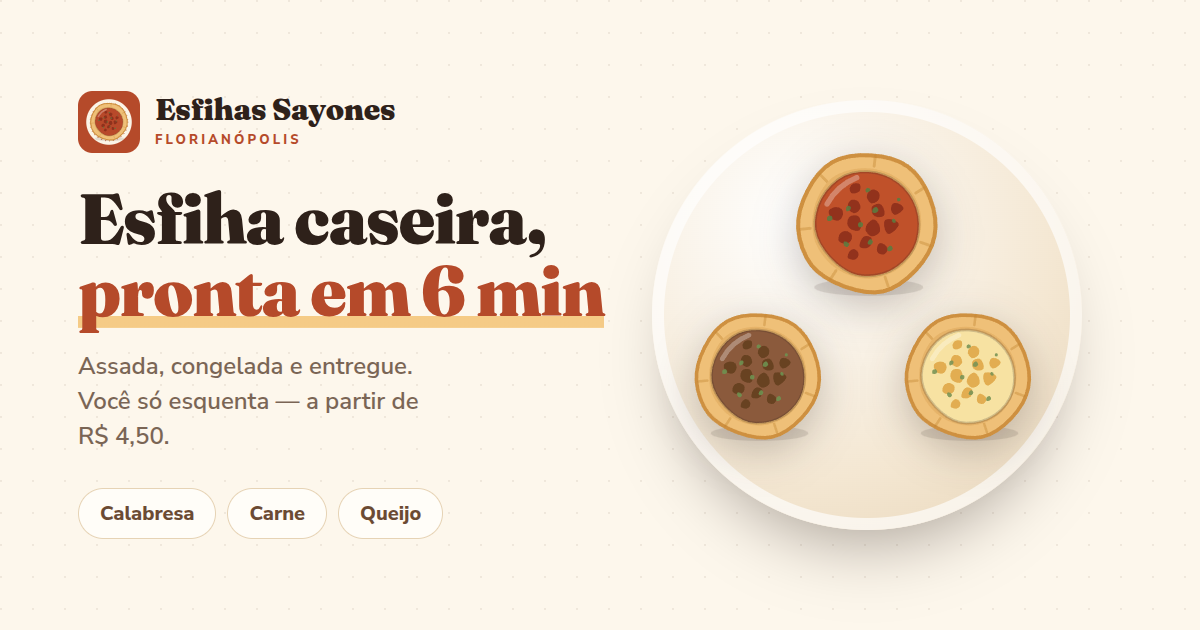
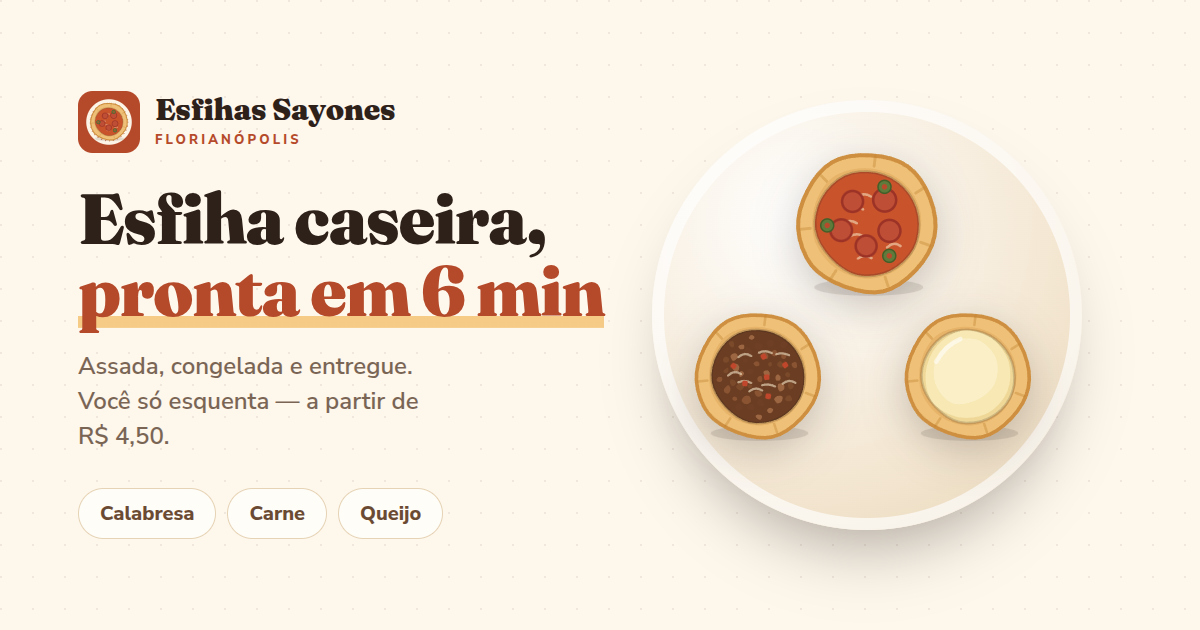
Um desenho por sabor, em vez do mesmo com cor trocada
Os três sabores usavam o mesmo SVG variando só as cores do recheio, então
nenhum tinha cara do que é. Agora são três desenhos independentes:

- Calabresa: molho, rodelas de calabresa em anel, fiapos de cebola e
  azeitona em rodela.
- Carne: granulado denso de carne moída em quatro tons, com cebola e
  tomate em cubinhos — a receita da casa.
- Queijo: só a muçarela derretida, sem bolhas nem temperos.

A descrição da carne dizia "limão, tomate e hortelã", o que não bate com
a receita (cebola, tomate e carne). Corrigida aqui, no JSON-LD e no
depoimento que citava o limão.

No card compacto do celular a descrição agora trava em duas linhas: a
coluna tem 113px e a da calabresa vazava pra três, deixando um card 17px
mais alto que os outros.

diff --git a/index.html b/index.html
@@ -422,8 +422,9 @@ main,header,footer{position:relative;z-index:1}
   .card h3{grid-area:nome;text-align:left;font-size:20px;align-self:end}
   .card .desc{display:none}
   .card .desc.curta{
-    grid-area:desc;display:block;text-align:left;font-size:12.5px;margin:2px 0 3px;
-    min-height:0;line-height:1.35;color:var(--texto-suave);
+    grid-area:desc;text-align:left;font-size:12.5px;margin:2px 0 3px;line-height:1.35;
+    color:var(--texto-suave);height:2.7em;
+    display:-webkit-box;-webkit-line-clamp:2;-webkit-box-orient:vertical;overflow:hidden;
   }
   .card-rodape{display:contents}
   .preco{grid-area:preco;font-size:15.5px;align-self:start;white-space:nowrap}
@@ -465,7 +466,7 @@ main,header,footer{position:relative;z-index:1}
       "name": "Esfihas",
       "hasMenuItem": [
         { "@type": "MenuItem", "name": "Esfiha de calabresa congelada", "description": "Calabresa moída, cebola caramelizada, azeitona e pimenta. Assada e congelada.", "offers": { "@type": "Offer", "price": "5.00", "priceCurrency": "BRL" } },
-        { "@type": "MenuItem", "name": "Esfiha de carne congelada", "description": "Carne bovina temperada com limão, tomate e hortelã. Assada e congelada.", "offers": { "@type": "Offer", "price": "5.00", "priceCurrency": "BRL" } },
+        { "@type": "MenuItem", "name": "Esfiha de carne congelada", "description": "Carne bovina moída com cebola e tomate. Assada e congelada.", "offers": { "@type": "Offer", "price": "5.00", "priceCurrency": "BRL" } },
         { "@type": "MenuItem", "name": "Esfiha de queijo congelada", "description": "Muçarela com requeijão cremoso e orégano. Assada e congelada.", "offers": { "@type": "Offer", "price": "5.00", "priceCurrency": "BRL" } }
       ]
     }]
@@ -478,52 +479,145 @@ main,header,footer{position:relative;z-index:1}
 <!-- ====== sprites ====== -->
 <svg width="0" height="0" style="position:absolute" aria-hidden="true" focusable="false">
   <defs>
-    <symbol id="ic-esfiha" viewBox="0 0 100 100">
-      <!-- Esfiha ABERTA vista de cima: massa irregular, borda erguida, recheio exposto. -->
+    <symbol id="ic-calabresa" viewBox="0 0 100 100">
       <ellipse cx="51" cy="89" rx="32" ry="5" fill="rgba(46,33,26,.12)"/>
       <path d="M89.7 59.0C88.3 66.1 83.7 73.5 78.7 78.9C73.6 84.3 66.4 89.8 59.4 91.4C52.4 93.0 43.6 91.0 36.6 88.5C29.6 85.9 22.0 81.8 17.4 76.1C12.9 70.4 10.0 61.7 9.5 54.5C9.1 47.2 11.5 39.0 14.9 32.5C18.2 25.9 23.6 18.8 29.8 15.3C36.1 11.8 44.9 10.9 52.3 11.4C59.6 11.8 68.2 13.8 74.0 18.0C79.8 22.2 84.4 29.7 87.1 36.6C89.7 43.4 91.1 52.0 89.7 59.0Z" fill="#EFC078"/>
       <path d="M89.7 59.0C88.3 66.1 83.7 73.5 78.7 78.9C73.6 84.3 66.4 89.8 59.4 91.4C52.4 93.0 43.6 91.0 36.6 88.5C29.6 85.9 22.0 81.8 17.4 76.1C12.9 70.4 10.0 61.7 9.5 54.5C9.1 47.2 11.5 39.0 14.9 32.5C18.2 25.9 23.6 18.8 29.8 15.3C36.1 11.8 44.9 10.9 52.3 11.4C59.6 11.8 68.2 13.8 74.0 18.0C79.8 22.2 84.4 29.7 87.1 36.6C89.7 43.4 91.1 52.0 89.7 59.0Z" fill="none" stroke="#CE9040" stroke-width="2.4" stroke-linejoin="round"/>
       <g stroke="#C1832F" stroke-width="1.7" stroke-linecap="round" opacity=".38">
-        <path d="M81.5 62.5 L87.1 64.5"/>
-        <path d="M60.6 82.8 L62.5 88.5"/>
-        <path d="M31.8 79.1 L28.5 84.2"/>
-        <path d="M16.7 54.3 L10.7 54.9"/>
-        <path d="M26.6 27.0 L22.4 22.7"/>
-        <path d="M54.2 17.8 L54.9 11.8"/>
-        <path d="M78.6 33.6 L83.7 30.4"/>
+      <path d="M81.5 62.5 L87.1 64.5"/>
+      <path d="M60.6 82.8 L62.5 88.5"/>
+      <path d="M31.8 79.1 L28.5 84.2"/>
+      <path d="M16.7 54.3 L10.7 54.9"/>
+      <path d="M26.6 27.0 L22.4 22.7"/>
+      <path d="M54.2 17.8 L54.9 11.8"/>
+      <path d="M78.6 33.6 L83.7 30.4"/>
       </g>
       <path d="M70.4 76.7C65.5 80.8 57.8 83.8 51.4 84.0C45.0 84.2 37.3 81.7 32.0 78.1C26.7 74.5 21.7 68.3 19.5 62.4C17.3 56.4 17.3 48.6 18.9 42.3C20.5 36.1 24.3 28.7 29.2 24.8C34.2 20.9 42.2 19.0 48.6 18.9C55.0 18.8 62.4 21.0 67.6 24.5C72.9 27.9 77.8 33.9 80.0 39.8C82.3 45.7 82.5 53.5 80.9 59.6C79.3 65.8 75.3 72.6 70.4 76.7Z" fill="#E6B368"/>
-      <path d="M77.5 66.0C74.7 71.4 69.0 76.7 63.4 79.4C57.9 82.0 50.1 83.1 44.2 81.7C38.4 80.4 32.5 75.8 28.4 71.4C24.3 66.9 20.4 60.7 19.6 54.9C18.7 49.1 20.5 41.7 23.4 36.4C26.3 31.2 31.6 25.8 36.9 23.4C42.3 20.9 49.7 20.6 55.5 21.7C61.3 22.9 67.6 26.2 71.7 30.5C75.8 34.7 79.2 41.2 80.1 47.1C81.1 53.0 80.3 60.6 77.5 66.0Z" fill="var(--recheio,#B8492A)"/>
+      <path d="M77.5 66.0C74.7 71.4 69.0 76.7 63.4 79.4C57.9 82.0 50.1 83.1 44.2 81.7C38.4 80.4 32.5 75.8 28.4 71.4C24.3 66.9 20.4 60.7 19.6 54.9C18.7 49.1 20.5 41.7 23.4 36.4C26.3 31.2 31.6 25.8 36.9 23.4C42.3 20.9 49.7 20.6 55.5 21.7C61.3 22.9 67.6 26.2 71.7 30.5C75.8 34.7 79.2 41.2 80.1 47.1C81.1 53.0 80.3 60.6 77.5 66.0Z" fill="#C9542C"/>
       <path d="M77.5 66.0C74.7 71.4 69.0 76.7 63.4 79.4C57.9 82.0 50.1 83.1 44.2 81.7C38.4 80.4 32.5 75.8 28.4 71.4C24.3 66.9 20.4 60.7 19.6 54.9C18.7 49.1 20.5 41.7 23.4 36.4C26.3 31.2 31.6 25.8 36.9 23.4C42.3 20.9 49.7 20.6 55.5 21.7C61.3 22.9 67.6 26.2 71.7 30.5C75.8 34.7 79.2 41.2 80.1 47.1C81.1 53.0 80.3 60.6 77.5 66.0Z" fill="none" stroke="rgba(46,33,26,.2)" stroke-width="1.8"/>
-      <g fill="var(--pedaco,#8C2F1B)" opacity=".92">
-        <path d="M57.2 56.9C56.5 58.0 53.9 59.3 52.6 59.0C51.3 58.8 49.6 56.7 49.2 55.5C48.9 54.2 49.6 52.5 50.4 51.5C51.2 50.4 53.0 48.9 54.1 49.1C55.2 49.2 56.6 51.1 57.2 52.4C57.7 53.7 58.0 55.8 57.2 56.9Z"/>
-        <path d="M39.9 47.4C40.9 46.6 43.5 46.4 44.6 47.0C45.7 47.6 46.3 49.6 46.5 51.0C46.6 52.4 46.5 54.8 45.5 55.5C44.6 56.2 42.0 55.7 40.8 55.0C39.6 54.4 38.6 52.9 38.4 51.7C38.3 50.4 38.8 48.2 39.9 47.4Z"/>
-        <path d="M59.9 46.8C59.3 47.6 57.4 47.9 56.2 47.7C55.1 47.5 53.7 46.7 53.2 45.7C52.7 44.6 52.4 42.3 53.1 41.4C53.8 40.4 56.3 39.6 57.4 39.9C58.6 40.1 59.5 41.9 59.9 43.0C60.4 44.2 60.6 46.1 59.9 46.8Z"/>
-        <path d="M48.9 58.9C49.9 58.6 51.8 59.1 52.4 59.8C53.0 60.6 53.1 62.4 52.7 63.4C52.3 64.4 51.3 65.5 50.1 65.9C48.9 66.2 46.4 66.1 45.8 65.3C45.2 64.5 46.0 62.2 46.6 61.1C47.1 60.1 47.9 59.1 48.9 58.9Z"/>
-        <path d="M40.8 37.6C41.8 37.2 43.8 37.6 44.7 38.4C45.5 39.2 46.4 41.2 46.1 42.4C45.9 43.5 44.1 45.2 43.0 45.4C41.9 45.6 40.2 44.4 39.5 43.6C38.8 42.7 38.5 41.4 38.7 40.4C39.0 39.4 39.9 37.9 40.8 37.6Z"/>
-        <path d="M66.4 55.5C65.3 56.5 63.5 57.9 62.5 57.6C61.4 57.4 60.5 55.1 60.2 53.7C59.9 52.4 59.9 50.2 60.7 49.4C61.5 48.7 63.7 48.8 65.0 49.2C66.4 49.6 68.5 50.7 68.7 51.8C68.9 52.8 67.4 54.5 66.4 55.5Z"/>
-        <path d="M33.4 61.7C32.8 60.8 33.4 58.4 34.1 57.5C34.8 56.5 36.6 55.8 37.7 55.9C38.9 56.0 40.5 57.0 41.0 58.0C41.4 59.0 41.1 60.9 40.5 61.7C39.9 62.6 38.4 63.3 37.2 63.3C36.0 63.3 33.9 62.7 33.4 61.7Z"/>
-        <path d="M57.3 33.9C57.6 34.9 57.4 36.8 56.6 37.8C55.8 38.7 53.7 39.9 52.6 39.6C51.5 39.3 50.2 37.3 49.9 36.2C49.7 35.0 50.4 33.5 51.1 32.7C51.8 31.9 53.3 31.3 54.4 31.5C55.4 31.7 56.9 32.8 57.3 33.9Z"/>
-        <path d="M62.2 66.6C62.2 67.5 61.1 69.2 60.1 69.6C59.2 70.0 57.3 69.5 56.6 68.9C55.9 68.3 55.7 66.7 55.9 65.8C56.0 64.8 56.7 63.4 57.4 63.1C58.1 62.8 59.5 63.3 60.3 63.9C61.1 64.5 62.2 65.6 62.2 66.6Z"/>
-        <path d="M28.9 48.5C28.0 47.5 27.1 44.9 27.6 43.8C28.1 42.7 30.5 41.9 31.7 41.8C33.0 41.7 34.4 42.3 35.1 43.0C35.8 43.8 36.1 45.4 35.8 46.5C35.5 47.6 34.5 49.4 33.3 49.7C32.2 50.1 29.9 49.5 28.9 48.5Z"/>
-        <path d="M66.1 46.3C65.2 46.0 64.2 44.4 64.1 43.3C63.9 42.2 64.5 40.3 65.3 39.7C66.1 39.2 67.9 39.4 68.9 39.9C69.9 40.3 71.4 41.5 71.5 42.4C71.5 43.3 70.2 44.5 69.3 45.2C68.4 45.8 67.0 46.6 66.1 46.3Z"/>
-        <path d="M44.6 68.2C45.1 68.9 45.1 70.3 44.7 71.1C44.3 71.8 43.3 72.7 42.3 72.8C41.3 72.9 39.3 72.5 38.8 71.8C38.3 71.0 38.9 69.1 39.5 68.2C40.0 67.4 41.2 66.5 42.1 66.5C42.9 66.5 44.2 67.4 44.6 68.2Z"/>
-        <path d="M43.5 33.6C42.6 33.8 41.2 34.0 40.6 33.4C40.0 32.9 39.6 31.3 39.9 30.4C40.1 29.5 41.0 28.4 42.0 28.0C43.0 27.7 45.0 27.6 45.7 28.3C46.3 28.9 46.3 31.0 45.9 31.9C45.6 32.8 44.4 33.3 43.5 33.6Z"/>
+      <g stroke="#F3DFBC" stroke-width="1.5" stroke-linecap="round" fill="none" opacity=".6">
+        <path d="M40.1 59.0 q4.0 -2.4 8.0 0.1"/>
+        <path d="M44.3 35.7 q4.0 -2.8 8.0 -0.1"/>
+        <path d="M61.8 65.6 q4.0 -4.0 8.0 -0.8"/>
+        <path d="M36.0 51.2 q4.0 -2.5 8.0 0.1"/>
+        <path d="M57.2 40.3 q4.0 -2.6 8.0 -0.0"/>
+        <path d="M44.7 72.1 q4.0 -2.9 8.0 -0.2"/>
+        <path d="M39.7 42.6 q4.0 -1.6 8.0 0.6"/>
       </g>
-      <g fill="var(--erva,#5C7A3F)" opacity=".9">
-        <path d="M44.7 51.8C44.8 51.3 45.3 50.8 45.7 50.7C46.2 50.6 47.3 50.7 47.5 51.2C47.8 51.6 47.7 52.9 47.3 53.3C46.9 53.7 45.7 53.8 45.2 53.5C44.8 53.3 44.6 52.3 44.7 51.8Z"/>
-        <path d="M55.5 41.8C56.0 41.9 56.7 43.2 56.7 43.8C56.6 44.4 55.8 45.0 55.2 45.2C54.7 45.4 53.5 45.3 53.2 44.9C52.9 44.5 53.1 43.4 53.5 42.9C53.9 42.3 54.9 41.6 55.5 41.8Z"/>
-        <path d="M52.3 63.9C51.8 64.1 50.7 63.8 50.4 63.4C50.2 63.0 50.5 62.2 50.8 61.7C51.1 61.3 51.8 60.6 52.3 60.7C52.7 60.8 53.5 61.8 53.5 62.3C53.5 62.9 52.8 63.8 52.3 63.9Z"/>
-        <path d="M40.5 41.9C40.6 42.3 40.5 43.1 40.1 43.5C39.7 43.9 38.4 44.5 38.0 44.3C37.6 44.0 37.6 42.5 37.8 42.0C38.0 41.4 38.7 41.0 39.2 41.0C39.6 41.0 40.3 41.5 40.5 41.9Z"/>
-        <path d="M65.3 48.6C65.6 48.5 66.4 48.9 66.6 49.3C66.9 49.7 67.0 50.5 66.8 50.8C66.6 51.1 65.7 51.1 65.4 51.0C65.0 50.8 64.6 50.3 64.6 49.9C64.5 49.5 64.9 48.7 65.3 48.6Z"/>
-        <path d="M36.4 62.2C36.8 61.9 38.0 62.2 38.5 62.5C39.0 62.7 39.6 63.4 39.5 63.9C39.5 64.3 38.7 65.3 38.2 65.3C37.7 65.4 36.8 64.9 36.5 64.4C36.2 63.9 36.1 62.5 36.4 62.2Z"/>
-        <path d="M50.5 30.5C51.0 30.5 51.9 31.1 52.0 31.6C52.1 32.0 51.4 32.7 51.0 32.9C50.6 33.2 49.8 33.3 49.5 33.1C49.1 32.8 49.0 31.9 49.1 31.5C49.3 31.0 50.0 30.5 50.5 30.5Z"/>
-        <path d="M64.0 67.6C63.5 67.8 62.5 67.9 62.2 67.6C61.8 67.3 61.9 66.1 62.2 65.6C62.5 65.1 63.5 64.4 64.0 64.5C64.5 64.6 65.2 65.7 65.2 66.3C65.2 66.8 64.5 67.3 64.0 67.6Z"/>
-        <path d="M28.6 49.9C28.1 50.1 26.9 50.1 26.6 49.7C26.3 49.3 26.4 47.8 26.8 47.4C27.1 46.9 28.4 46.8 28.9 47.0C29.4 47.2 29.8 48.2 29.7 48.7C29.7 49.2 29.1 49.7 28.6 49.9Z"/>
-        <path d="M68.1 38.4C67.8 38.3 67.5 37.5 67.6 37.2C67.7 36.8 68.1 36.3 68.5 36.3C68.8 36.2 69.4 36.5 69.5 36.8C69.7 37.1 69.8 37.9 69.5 38.2C69.3 38.4 68.4 38.6 68.1 38.4Z"/>
+      <g>
+        <g><circle cx="63.2" cy="55.8" r="7.2" fill="#9C3326"/><circle cx="63.2" cy="55.8" r="5.7" fill="#BE4E35"/></g>
+        <g><circle cx="49.5" cy="64.7" r="6.9" fill="#9C3326"/><circle cx="49.5" cy="64.7" r="5.4" fill="#BE4E35"/></g>
+        <g><circle cx="34.8" cy="55.4" r="7.1" fill="#9C3326"/><circle cx="34.8" cy="55.4" r="5.6" fill="#BE4E35"/></g>
+        <g><circle cx="41.5" cy="38.5" r="6.9" fill="#9C3326"/><circle cx="41.5" cy="38.5" r="5.4" fill="#BE4E35"/></g>
+        <g><circle cx="60.4" cy="37.7" r="7.5" fill="#9C3326"/><circle cx="60.4" cy="37.7" r="6.0" fill="#BE4E35"/></g>
       </g>
-      <path d="M26.5 40q6-11 17.5-15.5" fill="none" stroke="rgba(255,255,255,.4)"
-            stroke-width="3.2" stroke-linecap="round" opacity=".75"/>
+      <g>
+        <g><circle cx="63.1" cy="70.5" r="3.8" fill="#5F7B3C"/><circle cx="63.1" cy="70.5" r="3.8" fill="none" stroke="#445E28" stroke-width=".9"/><circle cx="63.1" cy="70.5" r="1.6" fill="#B8492A"/></g>
+        <g><circle cx="26.6" cy="52.6" r="3.8" fill="#5F7B3C"/><circle cx="26.6" cy="52.6" r="3.8" fill="none" stroke="#445E28" stroke-width=".9"/><circle cx="26.6" cy="52.6" r="1.6" fill="#B8492A"/></g>
+        <g><circle cx="60.3" cy="29.9" r="3.8" fill="#5F7B3C"/><circle cx="60.3" cy="29.9" r="3.8" fill="none" stroke="#445E28" stroke-width=".9"/><circle cx="60.3" cy="29.9" r="1.6" fill="#B8492A"/></g>
+      </g>
+    </symbol>
+    <symbol id="ic-carne" viewBox="0 0 100 100">
+      <ellipse cx="51" cy="89" rx="32" ry="5" fill="rgba(46,33,26,.12)"/>
+      <path d="M89.7 59.0C88.3 66.1 83.7 73.5 78.7 78.9C73.6 84.3 66.4 89.8 59.4 91.4C52.4 93.0 43.6 91.0 36.6 88.5C29.6 85.9 22.0 81.8 17.4 76.1C12.9 70.4 10.0 61.7 9.5 54.5C9.1 47.2 11.5 39.0 14.9 32.5C18.2 25.9 23.6 18.8 29.8 15.3C36.1 11.8 44.9 10.9 52.3 11.4C59.6 11.8 68.2 13.8 74.0 18.0C79.8 22.2 84.4 29.7 87.1 36.6C89.7 43.4 91.1 52.0 89.7 59.0Z" fill="#EFC078"/>
+      <path d="M89.7 59.0C88.3 66.1 83.7 73.5 78.7 78.9C73.6 84.3 66.4 89.8 59.4 91.4C52.4 93.0 43.6 91.0 36.6 88.5C29.6 85.9 22.0 81.8 17.4 76.1C12.9 70.4 10.0 61.7 9.5 54.5C9.1 47.2 11.5 39.0 14.9 32.5C18.2 25.9 23.6 18.8 29.8 15.3C36.1 11.8 44.9 10.9 52.3 11.4C59.6 11.8 68.2 13.8 74.0 18.0C79.8 22.2 84.4 29.7 87.1 36.6C89.7 43.4 91.1 52.0 89.7 59.0Z" fill="none" stroke="#CE9040" stroke-width="2.4" stroke-linejoin="round"/>
+      <g stroke="#C1832F" stroke-width="1.7" stroke-linecap="round" opacity=".38">
+      <path d="M81.5 62.5 L87.1 64.5"/>
+      <path d="M60.6 82.8 L62.5 88.5"/>
+      <path d="M31.8 79.1 L28.5 84.2"/>
+      <path d="M16.7 54.3 L10.7 54.9"/>
+      <path d="M26.6 27.0 L22.4 22.7"/>
+      <path d="M54.2 17.8 L54.9 11.8"/>
+      <path d="M78.6 33.6 L83.7 30.4"/>
+      </g>
+      <path d="M70.4 76.7C65.5 80.8 57.8 83.8 51.4 84.0C45.0 84.2 37.3 81.7 32.0 78.1C26.7 74.5 21.7 68.3 19.5 62.4C17.3 56.4 17.3 48.6 18.9 42.3C20.5 36.1 24.3 28.7 29.2 24.8C34.2 20.9 42.2 19.0 48.6 18.9C55.0 18.8 62.4 21.0 67.6 24.5C72.9 27.9 77.8 33.9 80.0 39.8C82.3 45.7 82.5 53.5 80.9 59.6C79.3 65.8 75.3 72.6 70.4 76.7Z" fill="#E6B368"/>
+      <path d="M77.5 66.0C74.7 71.4 69.0 76.7 63.4 79.4C57.9 82.0 50.1 83.1 44.2 81.7C38.4 80.4 32.5 75.8 28.4 71.4C24.3 66.9 20.4 60.7 19.6 54.9C18.7 49.1 20.5 41.7 23.4 36.4C26.3 31.2 31.6 25.8 36.9 23.4C42.3 20.9 49.7 20.6 55.5 21.7C61.3 22.9 67.6 26.2 71.7 30.5C75.8 34.7 79.2 41.2 80.1 47.1C81.1 53.0 80.3 60.6 77.5 66.0Z" fill="#6B3D22"/>
+      <path d="M77.5 66.0C74.7 71.4 69.0 76.7 63.4 79.4C57.9 82.0 50.1 83.1 44.2 81.7C38.4 80.4 32.5 75.8 28.4 71.4C24.3 66.9 20.4 60.7 19.6 54.9C18.7 49.1 20.5 41.7 23.4 36.4C26.3 31.2 31.6 25.8 36.9 23.4C42.3 20.9 49.7 20.6 55.5 21.7C61.3 22.9 67.6 26.2 71.7 30.5C75.8 34.7 79.2 41.2 80.1 47.1C81.1 53.0 80.3 60.6 77.5 66.0Z" fill="none" stroke="rgba(46,33,26,.22)" stroke-width="1.8"/>
+      <g>
+        <path d="M51.9 51.3C52.4 51.4 52.7 52.6 52.8 53.3C52.9 54.0 52.6 55.1 52.2 55.3C51.7 55.5 50.3 55.2 49.9 54.7C49.5 54.2 49.4 53.0 49.7 52.4C50.0 51.8 51.3 51.1 51.9 51.3Z" fill="#8A5433"/>
+        <path d="M43.3 47.3C43.7 46.8 44.7 46.4 45.4 46.6C46.0 46.7 47.1 47.5 47.2 48.1C47.2 48.7 46.4 49.8 45.8 50.1C45.1 50.4 43.6 50.4 43.2 49.9C42.8 49.5 42.9 47.9 43.3 47.3Z" fill="#6E3F25"/>
+        <path d="M56.6 47.7C57.3 48.0 57.9 49.6 57.8 50.3C57.7 51.0 56.6 51.8 56.1 51.9C55.5 52.0 54.8 51.4 54.4 50.8C54.0 50.3 53.3 49.0 53.7 48.4C54.1 47.9 55.9 47.4 56.6 47.7Z" fill="#9C6642"/>
+        <path d="M44.7 56.8C45.2 56.9 46.2 57.3 46.3 57.7C46.4 58.1 45.6 59.1 45.1 59.3C44.7 59.5 43.8 59.2 43.5 58.9C43.2 58.6 43.1 57.7 43.3 57.4C43.5 57.0 44.2 56.8 44.7 56.8Z" fill="#7B4A2B"/>
+        <path d="M48.5 44.9C47.9 44.6 47.0 43.5 47.1 43.0C47.1 42.5 48.2 41.8 48.8 41.7C49.4 41.5 50.2 41.8 50.5 42.2C50.8 42.7 51.2 44.0 50.8 44.4C50.5 44.8 49.1 45.1 48.5 44.9Z" fill="#8A5433"/>
+        <path d="M57.0 60.1C56.5 60.3 55.2 59.6 54.8 59.1C54.4 58.5 54.2 57.3 54.5 56.8C54.9 56.2 56.3 55.7 56.9 55.8C57.4 56.0 57.8 57.2 57.8 57.9C57.8 58.6 57.5 59.9 57.0 60.1Z" fill="#6E3F25"/>
+        <path d="M37.9 50.0C38.0 49.3 38.3 48.1 38.8 48.0C39.3 47.9 40.7 48.9 40.8 49.4C41.0 50.0 40.3 50.8 39.8 51.2C39.4 51.6 38.4 52.1 38.0 51.9C37.7 51.7 37.7 50.6 37.9 50.0Z" fill="#9C6642"/>
+        <path d="M58.6 42.1C59.0 42.3 59.2 43.3 59.2 43.8C59.1 44.3 58.8 44.9 58.4 45.0C58.0 45.1 57.2 44.9 56.9 44.6C56.7 44.2 56.5 43.3 56.8 42.9C57.1 42.5 58.2 42.0 58.6 42.1Z" fill="#7B4A2B"/>
+        <path d="M50.9 61.0C51.8 61.4 52.8 62.8 52.8 63.5C52.7 64.2 51.1 64.9 50.5 65.0C49.8 65.2 49.1 64.7 48.7 64.1C48.2 63.5 47.4 62.0 47.8 61.4C48.2 60.9 50.1 60.7 50.9 61.0Z" fill="#8A5433"/>
+        <path d="M41.4 39.7C42.0 39.8 42.7 40.1 42.9 40.5C43.1 41.0 43.0 42.3 42.6 42.5C42.3 42.8 41.2 42.4 40.7 42.1C40.2 41.8 39.6 40.9 39.7 40.5C39.8 40.1 40.9 39.7 41.4 39.7Z" fill="#6E3F25"/>
+        <path d="M63.0 50.3C63.5 50.3 64.6 51.1 64.8 51.7C65.1 52.4 64.9 53.6 64.4 54.1C63.9 54.5 62.4 54.5 61.9 54.2C61.5 53.8 61.3 52.6 61.5 52.0C61.6 51.3 62.4 50.3 63.0 50.3Z" fill="#9C6642"/>
+        <path d="M40.8 58.5C40.5 59.3 39.3 60.8 38.4 60.8C37.6 60.8 35.8 59.4 35.6 58.6C35.5 57.8 36.8 56.6 37.5 56.2C38.1 55.8 39.1 55.8 39.7 56.2C40.2 56.6 41.0 57.8 40.8 58.5Z" fill="#7B4A2B"/>
+        <path d="M56.2 36.7C56.7 37.4 57.0 39.2 56.5 39.7C56.1 40.2 54.4 40.2 53.7 39.9C52.9 39.6 52.0 38.7 52.0 38.0C52.0 37.3 52.9 35.9 53.6 35.7C54.3 35.5 55.7 36.0 56.2 36.7Z" fill="#8A5433"/>
+        <path d="M56.7 62.3C57.3 62.1 58.3 62.1 58.7 62.6C59.0 63.0 59.3 64.5 58.9 65.0C58.5 65.6 56.9 66.3 56.2 66.1C55.5 65.9 54.8 64.2 54.9 63.6C54.9 62.9 56.0 62.4 56.7 62.3Z" fill="#6E3F25"/>
+        <path d="M37.7 45.9C37.5 46.7 37.0 48.3 36.2 48.5C35.5 48.6 33.7 47.6 33.4 46.7C33.0 45.9 33.4 43.8 34.0 43.4C34.6 42.9 36.3 43.5 36.9 43.9C37.5 44.3 37.8 45.2 37.7 45.9Z" fill="#9C6642"/>
+        <path d="M66.1 43.3C66.4 44.0 66.5 45.3 66.1 45.6C65.7 45.9 64.3 45.8 63.7 45.4C63.1 45.0 62.4 43.8 62.6 43.2C62.8 42.6 64.1 41.6 64.7 41.6C65.3 41.6 65.9 42.7 66.1 43.3Z" fill="#7B4A2B"/>
+        <path d="M40.9 64.8C41.7 64.2 43.6 64.0 44.3 64.6C45.0 65.1 45.6 67.2 45.3 68.1C45.0 69.0 43.2 69.9 42.2 69.9C41.2 69.8 39.5 68.7 39.3 67.8C39.1 67.0 40.0 65.3 40.9 64.8Z" fill="#8A5433"/>
+        <path d="M46.1 36.2C45.9 36.7 44.2 37.1 43.3 36.9C42.5 36.7 41.2 35.7 41.1 34.9C41.0 34.1 42.2 32.3 42.9 32.1C43.5 31.9 44.5 33.1 45.1 33.7C45.6 34.4 46.4 35.7 46.1 36.2Z" fill="#6E3F25"/>
+        <path d="M66.9 56.8C67.4 57.4 67.5 59.2 67.1 60.0C66.7 60.8 65.1 61.6 64.4 61.5C63.7 61.3 63.2 60.0 63.0 59.1C62.9 58.3 62.9 56.8 63.6 56.4C64.2 56.0 66.3 56.2 66.9 56.8Z" fill="#9C6642"/>
+        <path d="M35.5 56.3C35.3 57.0 33.8 58.0 33.2 57.9C32.5 57.8 31.8 56.7 31.6 56.0C31.4 55.3 31.7 54.0 32.2 53.7C32.6 53.4 33.9 53.7 34.4 54.2C35.0 54.6 35.7 55.7 35.5 56.3Z" fill="#7B4A2B"/>
+        <path d="M62.8 36.7C62.7 37.4 61.4 38.4 60.8 38.5C60.1 38.5 59.1 37.7 58.9 37.1C58.6 36.6 58.7 35.6 59.2 35.1C59.6 34.6 60.9 33.9 61.5 34.2C62.1 34.5 62.9 36.0 62.8 36.7Z" fill="#8A5433"/>
+        <path d="M54.1 70.9C53.7 71.4 51.6 71.3 50.8 70.9C50.0 70.6 49.3 69.5 49.3 68.8C49.3 68.0 50.3 66.5 50.9 66.4C51.5 66.2 52.5 67.2 53.0 68.0C53.5 68.7 54.4 70.4 54.1 70.9Z" fill="#6E3F25"/>
+        <path d="M36.1 39.9C35.6 40.4 34.2 41.6 33.5 41.3C32.8 41.0 31.7 38.9 31.9 38.1C32.1 37.2 33.8 36.3 34.6 36.3C35.4 36.2 36.4 37.2 36.6 37.8C36.9 38.4 36.6 39.3 36.1 39.9Z" fill="#9C6642"/>
+        <path d="M70.3 52.2C69.8 52.4 68.9 51.9 68.5 51.5C68.1 51.2 67.7 50.5 67.9 50.1C68.0 49.6 68.8 48.7 69.3 48.7C69.9 48.7 70.9 49.5 71.1 50.0C71.3 50.6 70.7 51.9 70.3 52.2Z" fill="#7B4A2B"/>
+        <path d="M33.1 66.5C33.0 66.0 33.8 65.0 34.2 64.8C34.7 64.7 35.4 65.0 35.8 65.4C36.1 65.7 36.5 66.6 36.3 67.0C36.1 67.4 35.2 67.8 34.6 67.7C34.1 67.6 33.2 67.0 33.1 66.5Z" fill="#8A5433"/>
+        <path d="M47.9 30.1C48.3 29.5 49.9 29.7 50.8 29.8C51.7 29.9 53.2 30.3 53.4 31.0C53.5 31.6 52.5 33.2 51.7 33.7C50.9 34.1 49.1 34.1 48.5 33.5C47.9 32.9 47.6 30.7 47.9 30.1Z" fill="#6E3F25"/>
+        <path d="M65.6 68.0C65.1 68.8 63.5 69.5 62.7 69.3C61.9 69.0 60.7 67.3 60.7 66.5C60.8 65.7 62.0 64.8 62.9 64.5C63.7 64.2 65.5 64.1 66.0 64.7C66.4 65.3 66.2 67.2 65.6 68.0Z" fill="#9C6642"/>
+        <path d="M27.3 48.7C27.1 48.3 27.7 47.4 28.2 46.9C28.6 46.5 29.8 45.8 30.2 46.0C30.6 46.2 30.6 47.6 30.5 48.2C30.3 48.8 29.8 49.4 29.2 49.5C28.7 49.5 27.5 49.1 27.3 48.7Z" fill="#7B4A2B"/>
+        <path d="M68.5 38.8C68.4 39.4 67.9 40.1 67.4 40.2C66.9 40.3 65.8 40.0 65.5 39.5C65.2 39.0 65.2 37.7 65.6 37.3C66.0 36.8 67.5 36.5 68.0 36.8C68.4 37.0 68.6 38.2 68.5 38.8Z" fill="#8A5433"/>
+        <path d="M42.7 71.9C42.7 71.4 43.3 70.5 43.9 70.2C44.6 69.9 46.2 69.4 46.7 70.0C47.3 70.5 47.6 72.8 47.1 73.3C46.7 73.9 44.9 73.7 44.2 73.5C43.5 73.2 42.7 72.5 42.7 71.9Z" fill="#6E3F25"/>
+        <path d="M40.8 31.0C41.1 31.4 41.0 32.9 40.6 33.4C40.2 33.8 39.0 33.9 38.4 33.7C37.9 33.4 37.0 32.5 37.1 32.0C37.1 31.6 38.0 31.0 38.7 30.8C39.3 30.6 40.5 30.5 40.8 31.0Z" fill="#9C6642"/>
+        <path d="M70.4 55.6C70.9 55.3 72.3 55.8 72.8 56.3C73.3 56.8 73.7 57.9 73.5 58.5C73.3 59.1 72.0 60.2 71.4 60.1C70.7 60.0 69.9 58.9 69.7 58.1C69.6 57.4 69.9 56.0 70.4 55.6Z" fill="#7B4A2B"/>
+        <path d="M27.6 61.6C27.2 61.0 27.7 59.9 28.2 59.2C28.7 58.5 30.0 57.2 30.7 57.4C31.3 57.6 32.0 59.5 31.9 60.4C31.8 61.3 31.0 62.7 30.2 62.9C29.5 63.1 27.9 62.2 27.6 61.6Z" fill="#8A5433"/>
+        <path d="M59.4 27.7C60.1 28.1 60.4 29.4 60.3 30.1C60.2 30.9 59.6 32.1 58.9 32.3C58.2 32.4 56.5 31.9 56.1 31.2C55.7 30.5 56.0 28.8 56.6 28.2C57.1 27.6 58.8 27.4 59.4 27.7Z" fill="#6E3F25"/>
+        <path d="M59.9 73.3C60.1 73.8 59.5 75.0 59.0 75.4C58.6 75.8 57.7 76.0 57.2 75.7C56.7 75.5 55.9 74.5 56.0 73.9C56.1 73.4 57.0 72.4 57.6 72.3C58.3 72.1 59.7 72.7 59.9 73.3Z" fill="#9C6642"/>
+        <path d="M28.4 38.6C29.1 38.4 30.6 39.2 30.9 39.7C31.2 40.3 30.8 41.7 30.3 42.1C29.9 42.6 28.8 42.7 28.2 42.5C27.7 42.3 26.9 41.4 27.0 40.7C27.0 40.0 27.8 38.7 28.4 38.6Z" fill="#7B4A2B"/>
+        <path d="M73.1 45.6C72.7 45.2 71.8 43.9 72.1 43.3C72.3 42.7 74.2 41.9 74.8 42.1C75.4 42.3 75.7 43.8 75.7 44.4C75.7 45.1 75.4 45.9 75.0 46.1C74.5 46.3 73.6 46.1 73.1 45.6Z" fill="#8A5433"/>
+        <path d="M35.2 71.3C35.4 70.6 36.5 69.5 37.2 69.4C38.0 69.3 39.4 70.2 39.6 70.9C39.9 71.6 39.5 73.1 39.0 73.6C38.4 74.1 36.9 74.2 36.2 73.8C35.6 73.4 35.0 72.0 35.2 71.3Z" fill="#6E3F25"/>
+        <path d="M45.0 24.6C45.4 24.2 46.3 24.3 46.7 24.6C47.2 24.8 47.8 25.8 47.6 26.3C47.5 26.7 46.6 27.4 46.0 27.5C45.4 27.5 44.2 26.9 44.0 26.5C43.9 26.0 44.5 24.9 45.0 24.6Z" fill="#9C6642"/>
+        <path d="M72.4 67.1C72.2 67.7 70.4 68.0 69.7 68.0C68.9 67.9 68.0 67.4 67.9 66.8C67.7 66.3 68.1 65.3 68.6 64.9C69.2 64.4 70.4 63.8 71.1 64.2C71.7 64.5 72.6 66.4 72.4 67.1Z" fill="#7B4A2B"/>
+        <path d="M23.9 52.0C24.4 51.7 25.6 51.8 26.0 52.1C26.5 52.4 26.7 53.4 26.5 54.0C26.4 54.5 25.7 55.3 25.1 55.3C24.4 55.4 23.0 54.8 22.8 54.3C22.6 53.7 23.4 52.4 23.9 52.0Z" fill="#8A5433"/>
+        <path d="M64.9 29.9C65.2 29.2 66.2 28.4 66.9 28.4C67.6 28.4 69.0 29.3 69.2 30.0C69.4 30.7 68.8 32.3 68.1 32.7C67.4 33.2 65.7 33.1 65.1 32.6C64.6 32.1 64.6 30.6 64.9 29.9Z" fill="#6E3F25"/>
+        <path d="M51.7 80.1C51.2 80.4 50.0 79.8 49.5 79.3C49.0 78.9 48.3 78.0 48.5 77.5C48.6 77.1 49.7 76.7 50.4 76.7C51.1 76.7 52.4 77.0 52.6 77.5C52.8 78.1 52.2 79.8 51.7 80.1Z" fill="#9C6642"/>
+        <path d="M31.0 29.2C31.3 28.7 32.8 28.2 33.3 28.4C33.9 28.6 34.2 29.6 34.3 30.3C34.3 31.0 34.0 32.5 33.5 32.6C33.1 32.8 31.9 31.9 31.5 31.4C31.1 30.8 30.7 29.7 31.0 29.2Z" fill="#7B4A2B"/>
+      </g>
+      <g stroke="#F0E0C2" stroke-width="1.5" stroke-linecap="round" fill="none" opacity=".62">
+        <path d="M52.7 57.4 q4.2 -1.3 8.5 0.8"/>
+        <path d="M30.3 51.0 q4.2 -4.0 8.5 -0.9"/>
+        <path d="M62.0 37.0 q4.2 -1.5 8.5 0.7"/>
+        <path d="M44.3 61.4 q4.2 -3.4 8.5 -0.5"/>
+        <path d="M37.1 38.9 q4.2 -3.7 8.5 -0.7"/>
+        <path d="M66.2 56.4 q4.2 -3.4 8.5 -0.5"/>
+        <path d="M37.0 55.5 q4.2 -2.0 8.5 0.4"/>
+        <path d="M50.6 36.0 q4.2 -2.1 8.5 0.3"/>
+      </g>
+      <g>
+        <rect x="53.9" y="50.3" width="3.6" height="3.6" rx="1.2" fill="#C0472B" transform="rotate(86 55.7 52.1)"/>
+        <rect x="39.6" y="54.4" width="3.6" height="3.6" rx="1.2" fill="#C0472B" transform="rotate(8 41.4 56.2)"/>
+        <rect x="51.9" y="36.8" width="3.6" height="3.6" rx="1.2" fill="#C0472B" transform="rotate(63 53.7 38.6)"/>
+        <rect x="54.9" y="62.9" width="3.6" height="3.6" rx="1.2" fill="#C0472B" transform="rotate(7 56.7 64.7)"/>
+        <rect x="32.1" y="42.9" width="3.6" height="3.6" rx="1.2" fill="#C0472B" transform="rotate(41 33.9 44.7)"/>
+        <rect x="66.1" y="42.3" width="3.6" height="3.6" rx="1.2" fill="#C0472B" transform="rotate(56 67.9 44.1)"/>
+      </g>
+    </symbol>
+    <symbol id="ic-queijo" viewBox="0 0 100 100">
+      <ellipse cx="51" cy="89" rx="32" ry="5" fill="rgba(46,33,26,.12)"/>
+      <path d="M89.7 59.0C88.3 66.1 83.7 73.5 78.7 78.9C73.6 84.3 66.4 89.8 59.4 91.4C52.4 93.0 43.6 91.0 36.6 88.5C29.6 85.9 22.0 81.8 17.4 76.1C12.9 70.4 10.0 61.7 9.5 54.5C9.1 47.2 11.5 39.0 14.9 32.5C18.2 25.9 23.6 18.8 29.8 15.3C36.1 11.8 44.9 10.9 52.3 11.4C59.6 11.8 68.2 13.8 74.0 18.0C79.8 22.2 84.4 29.7 87.1 36.6C89.7 43.4 91.1 52.0 89.7 59.0Z" fill="#EFC078"/>
+      <path d="M89.7 59.0C88.3 66.1 83.7 73.5 78.7 78.9C73.6 84.3 66.4 89.8 59.4 91.4C52.4 93.0 43.6 91.0 36.6 88.5C29.6 85.9 22.0 81.8 17.4 76.1C12.9 70.4 10.0 61.7 9.5 54.5C9.1 47.2 11.5 39.0 14.9 32.5C18.2 25.9 23.6 18.8 29.8 15.3C36.1 11.8 44.9 10.9 52.3 11.4C59.6 11.8 68.2 13.8 74.0 18.0C79.8 22.2 84.4 29.7 87.1 36.6C89.7 43.4 91.1 52.0 89.7 59.0Z" fill="none" stroke="#CE9040" stroke-width="2.4" stroke-linejoin="round"/>
+      <g stroke="#C1832F" stroke-width="1.7" stroke-linecap="round" opacity=".38">
+      <path d="M81.5 62.5 L87.1 64.5"/>
+      <path d="M60.6 82.8 L62.5 88.5"/>
+      <path d="M31.8 79.1 L28.5 84.2"/>
+      <path d="M16.7 54.3 L10.7 54.9"/>
+      <path d="M26.6 27.0 L22.4 22.7"/>
+      <path d="M54.2 17.8 L54.9 11.8"/>
+      <path d="M78.6 33.6 L83.7 30.4"/>
+      </g>
+      <path d="M70.4 76.7C65.5 80.8 57.8 83.8 51.4 84.0C45.0 84.2 37.3 81.7 32.0 78.1C26.7 74.5 21.7 68.3 19.5 62.4C17.3 56.4 17.3 48.6 18.9 42.3C20.5 36.1 24.3 28.7 29.2 24.8C34.2 20.9 42.2 19.0 48.6 18.9C55.0 18.8 62.4 21.0 67.6 24.5C72.9 27.9 77.8 33.9 80.0 39.8C82.3 45.7 82.5 53.5 80.9 59.6C79.3 65.8 75.3 72.6 70.4 76.7Z" fill="#E6B368"/>
+      <path d="M77.5 66.0C74.7 71.4 69.0 76.7 63.4 79.4C57.9 82.0 50.1 83.1 44.2 81.7C38.4 80.4 32.5 75.8 28.4 71.4C24.3 66.9 20.4 60.7 19.6 54.9C18.7 49.1 20.5 41.7 23.4 36.4C26.3 31.2 31.6 25.8 36.9 23.4C42.3 20.9 49.7 20.6 55.5 21.7C61.3 22.9 67.6 26.2 71.7 30.5C75.8 34.7 79.2 41.2 80.1 47.1C81.1 53.0 80.3 60.6 77.5 66.0Z" fill="#EFD897"/>
+      <path d="M77.5 66.0C74.7 71.4 69.0 76.7 63.4 79.4C57.9 82.0 50.1 83.1 44.2 81.7C38.4 80.4 32.5 75.8 28.4 71.4C24.3 66.9 20.4 60.7 19.6 54.9C18.7 49.1 20.5 41.7 23.4 36.4C26.3 31.2 31.6 25.8 36.9 23.4C42.3 20.9 49.7 20.6 55.5 21.7C61.3 22.9 67.6 26.2 71.7 30.5C75.8 34.7 79.2 41.2 80.1 47.1C81.1 53.0 80.3 60.6 77.5 66.0Z" fill="none" stroke="rgba(46,33,26,.18)" stroke-width="1.8"/>
+      <path d="M62.9 75.8C57.5 78.6 49.6 79.6 43.5 78.4C37.4 77.1 29.9 73.1 26.4 68.2C22.8 63.3 21.6 55.1 22.2 48.9C22.7 42.8 25.6 36.0 29.6 31.4C33.7 26.8 40.5 22.3 46.5 21.5C52.4 20.7 60.5 23.1 65.5 26.5C70.6 30.0 75.1 36.4 76.8 42.2C78.5 48.0 78.2 55.8 75.9 61.4C73.6 67.0 68.3 73.0 62.9 75.8Z" fill="#F7E8B4"/>
+      <path d="M67.5 56.5C65.4 60.9 60.6 64.8 56.0 66.9C51.3 69.0 44.3 71.0 39.7 69.2C35.2 67.5 30.4 61.4 28.6 56.6C26.8 51.7 27.1 45.0 29.1 40.3C31.0 35.6 35.6 30.4 40.3 28.4C45.0 26.3 52.5 25.9 57.2 27.9C61.9 29.9 66.9 35.6 68.6 40.3C70.3 45.1 69.6 52.1 67.5 56.5Z" fill="#FCF2CF" opacity=".75"/>
+      <path d="M29 42q6-11 16-15" fill="none" stroke="rgba(255,255,255,.55)"
+            stroke-width="3" stroke-linecap="round"/>
     </symbol>
     <symbol id="ic-check" viewBox="0 0 24 24"><path d="M20 6 9 17l-5-5" fill="none" stroke="currentColor" stroke-width="2.6" stroke-linecap="round" stroke-linejoin="round"/></symbol>
     <symbol id="ic-pin" viewBox="0 0 24 24"><path d="M12 21s7-6.1 7-11a7 7 0 1 0-14 0c0 4.9 7 11 7 11Z" fill="none" stroke="currentColor" stroke-width="2" stroke-linejoin="round"/><circle cx="12" cy="10" r="2.6" fill="none" stroke="currentColor" stroke-width="2"/></symbol>
@@ -544,7 +638,7 @@ main,header,footer{position:relative;z-index:1}
         <rect width="128" height="128" rx="30" fill="#B54A2A"/>
         <circle cx="64" cy="64" r="47" fill="#FBF4E7"/>
         <circle cx="64" cy="64" r="39" fill="none" stroke="#B54A2A" stroke-width="2.4" stroke-linecap="round" stroke-dasharray="0.5 8" opacity=".7"/>
-        <svg x="17" y="15" width="94" height="94" viewBox="0 0 100 100" style="--recheio:#B8492A;--pedaco:#8C2F1B;--erva:#5C7A3F"><use href="#ic-esfiha"/></svg>
+        <svg x="17" y="15" width="94" height="94" viewBox="0 0 100 100"><use href="#ic-calabresa"/></svg>
       </svg>
       <span class="marca-txt"><b>Sayones</b><span>Esfihas</span></span>
     </a>
@@ -585,9 +679,9 @@ main,header,footer{position:relative;z-index:1}
       </ul>
     </div>
     <div class="prato" aria-hidden="true">
-      <svg class="esf e1" viewBox="0 0 100 100" style="--recheio:#C0512A;--pedaco:#8E2F1B;--erva:#5C7A3F"><use href="#ic-esfiha"/></svg>
-      <svg class="esf e2" viewBox="0 0 100 100" style="--recheio:#8B5A3C;--pedaco:#65401F;--erva:#6E9150"><use href="#ic-esfiha"/></svg>
-      <svg class="esf e3" viewBox="0 0 100 100" style="--recheio:#F7E2A2;--pedaco:#E0A94A;--erva:#7A9455"><use href="#ic-esfiha"/></svg>
+      <svg class="esf e1" viewBox="0 0 100 100"><use href="#ic-calabresa"/></svg>
+      <svg class="esf e2" viewBox="0 0 100 100"><use href="#ic-carne"/></svg>
+      <svg class="esf e3" viewBox="0 0 100 100"><use href="#ic-queijo"/></svg>
       <div class="etiqueta t1"><b>R$5</b> a unidade</div>
       <div class="etiqueta t2">❄ <span>Direto do freezer<br>pra air fryer</span></div>
     </div>
@@ -723,7 +817,7 @@ main,header,footer{position:relative;z-index:1}
     </div>
     <div class="depo">
       <div class="estrelas" aria-label="5 de 5 estrelas">★★★★★</div>
-      <blockquote>“Massa leve de verdade, nada pesada. A de carne tem aquele toque de limão que faz a diferença.”</blockquote>
+      <blockquote>“Massa leve de verdade, nada pesada. A de carne tem cebola de montão, do jeito que tem que ser.”</blockquote>
       <footer><span class="avatar">JP</span><span><b>Juliana P.</b><small>Centro</small></span></footer>
     </div>
   </div>
@@ -810,7 +904,7 @@ main,header,footer{position:relative;z-index:1}
 
   <div class="gaveta-corpo" id="gavetaCorpo">
     <div class="vazio" id="blocoVazio">
-      <svg viewBox="0 0 100 100" aria-hidden="true" style="--recheio:#C0512A;--pedaco:#8E2F1B;--erva:#5C7A3F"><use href="#ic-esfiha"/></svg>
+      <svg viewBox="0 0 100 100" aria-hidden="true"><use href="#ic-calabresa"/></svg>
       <p><b>Seu pedido está vazio</b><br>Escolha os sabores no cardápio e eles aparecem aqui.</p>
       <button class="btn btn-fantasma" type="button" id="btnIrCardapio">Ver o cardápio</button>
     </div>
@@ -884,16 +978,16 @@ main,header,footer{position:relative;z-index:1}
     // `curta` é a versão que aparece no card compacto do celular.
     { id:"calabresa", nome:"Calabresa",
       desc:"Calabresa moída na hora, cebola caramelizada, azeitona e um sopro de pimenta.",
-      curta:"Cebola caramelizada e azeitona",
-      cores:{ recheio:"#C0512A", pedaco:"#8E2F1B", erva:"#5C7A3F" } },
+      curta:"Com cebola e azeitona",
+      icone:"#ic-calabresa" },
     { id:"carne", nome:"Carne",
-      desc:"Carne bovina temperada com limão, tomate e hortelã. A clássica, do jeito certo.",
-      curta:"Limão, tomate e hortelã",
-      cores:{ recheio:"#8B5A3C", pedaco:"#65401F", erva:"#6E9150" } },
+      desc:"Carne bovina moída com cebola e tomate, temperada à mão. A clássica, do jeito certo.",
+      curta:"Cebola, tomate e tempero",
+      icone:"#ic-carne" },
     { id:"queijo", nome:"Queijo",
       desc:"Muçarela com requeijão cremoso e orégano. Puxa aquele fio na primeira mordida.",
-      curta:"Muçarela com requeijão e orégano",
-      cores:{ recheio:"#F7E2A2", pedaco:"#E0A94A", erva:"#7A9455" }, veg:true }
+      curta:"Muçarela com orégano",
+      icone:"#ic-queijo", veg:true }
   ];
 
   // Combos por quantidade total do pedido (ordem: maior mínimo primeiro).
@@ -936,9 +1030,6 @@ main,header,footer{position:relative;z-index:1}
     for (var i=0;i<FAIXAS.length;i++){ if (q >= FAIXAS[i].min) return FAIXAS[i]; }
     return FAIXAS[FAIXAS.length-1];
   }
-  function estiloCores(c){
-    return "--recheio:"+c.recheio+";--pedaco:"+c.pedaco+";--erva:"+c.erva;
-  }
 
   /* ---------- monta o cardápio ---------- */
   var listaSabores = $("#listaSabores");
@@ -948,7 +1039,7 @@ main,header,footer{position:relative;z-index:1}
     card.dataset.sabor = s.id;
     card.innerHTML =
       (s.veg ? '<span class="tag-veg">Vegetariana</span>' : '') +
-      '<svg class="card-ilu" viewBox="0 0 100 100" aria-hidden="true" style="'+estiloCores(s.cores)+'"><use href="#ic-esfiha"/></svg>' +
+      '<svg class="card-ilu" viewBox="0 0 100 100" aria-hidden="true"><use href="'+s.icone+'"/></svg>' +
       '<h3>'+s.nome+'</h3>' +
       '<p class="desc">'+s.desc+'</p>' +
       '<p class="desc curta">'+(s.curta || s.desc)+'</p>' +
@@ -1096,7 +1187,7 @@ main,header,footer{position:relative;z-index:1}
         li.className = "linha";
         li.dataset.sabor = s.id;
         li.innerHTML =
-          '<svg viewBox="0 0 100 100" aria-hidden="true" style="'+estiloCores(s.cores)+'"><use href="#ic-esfiha"/></svg>' +
+          '<svg viewBox="0 0 100 100" aria-hidden="true"><use href="'+s.icone+'"/></svg>' +
           '<span class="linha-txt"><span class="nome">'+s.nome+'</span><span class="sub"></span></span>' +
           '<div class="stepper">' +
             '<button type="button" data-op="-1" aria-label="Remover uma de '+s.nome+'">−</button>' +
